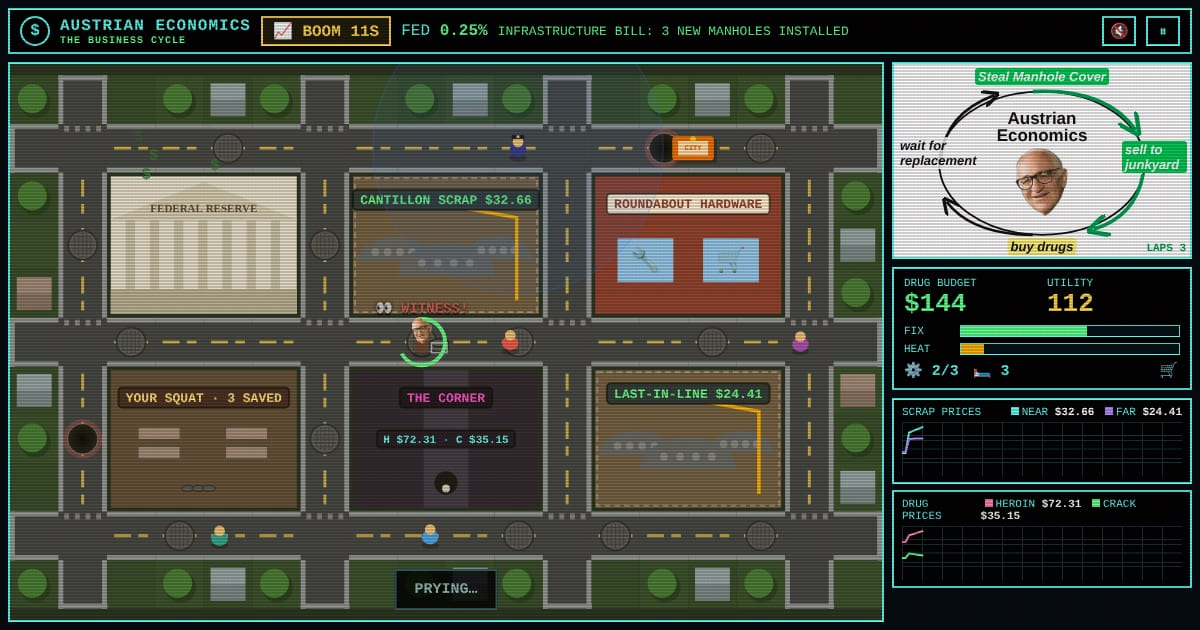
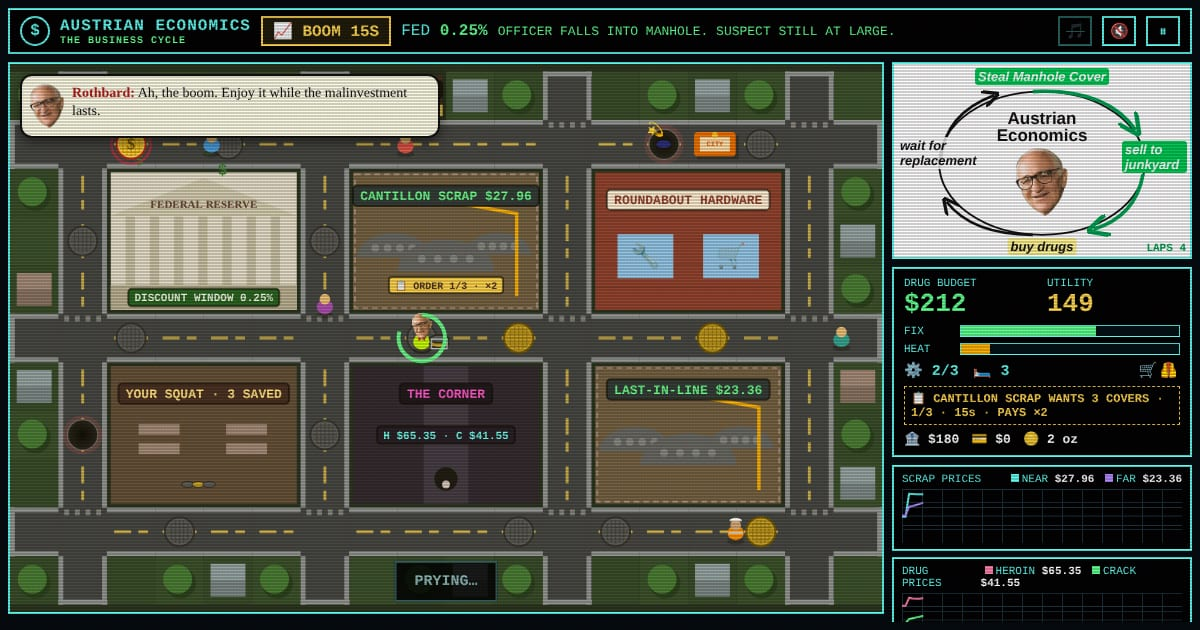
chore(austrian-economics): mark as released and update the screenshot

diff --git a/src/games.ts b/src/games.ts
@@ -26,7 +26,7 @@ export const games: Game[] = [
     slug: 'austrian-economics-simulator',
     title: 'Austrian Economics Simulator',
     blurb: 'Steal manhole covers, sell them to the junkyard, buy drugs, wait for the replacement. Time it with the Fed’s business cycle.',
-    status: 'wip',
+    status: 'released', // v1.0
     legacyPaths: ['austrian_economics_simulator.html'],
   },
   {

diff --git a/ROADMAP.md b/ROADMAP.md
@@ -655,3 +655,5 @@ wait for replacement.
   - Clicked buttons kept the focus, so Space or Enter could click them again.
   - A 0-point daily run said "today's best 0 utils" and counted as a day
     played.
+- Declared finished (v1.0): the "In progress" badge is gone from the homepage,
+  with a new screenshot and link preview.
